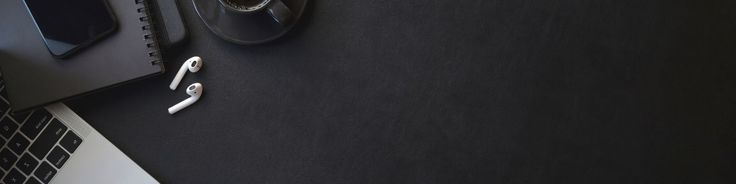
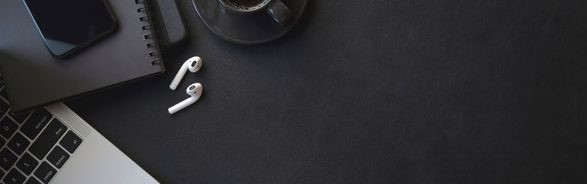
image

Changed region(s): [[0.0, 0.0, 0.552, 1.0]]

diff --git a/assets/css/mariana.css b/assets/css/mariana.css
@@ -503,11 +503,11 @@ pre code {
 
 .container_title {
   width: 100%;
-  height: 40vh;
-  min-height: 200px;
+  height: 20vh;
+  min-height: 100px;
   background-image: -webkit-linear-gradient(bottom, rgba(0, 0, 0, 0.5), rgba(0, 0, 0, 0.5)), url(../imgs/career.jpg);
   background-image: linear-gradient(to top, rgba(0, 0, 0, 0.5), rgba(0, 0, 0, 0.5)), url(../imgs/career.jpg);
-  background-size: cover;
+  background-size: auto;
   background-position: center;
   background-repeat: no-repeat;
   background-attachment: fixed;
@@ -518,6 +518,8 @@ pre code {
 .container_title .subtitle {
   font-weight: 200;
   font-size: calc(20px + (45 - 20) * ((100vw - 300px) / (1600 - 300)));
+  text-align: center;
+  color: #fff;
 }
 
 @media (min-width: 576px) {
